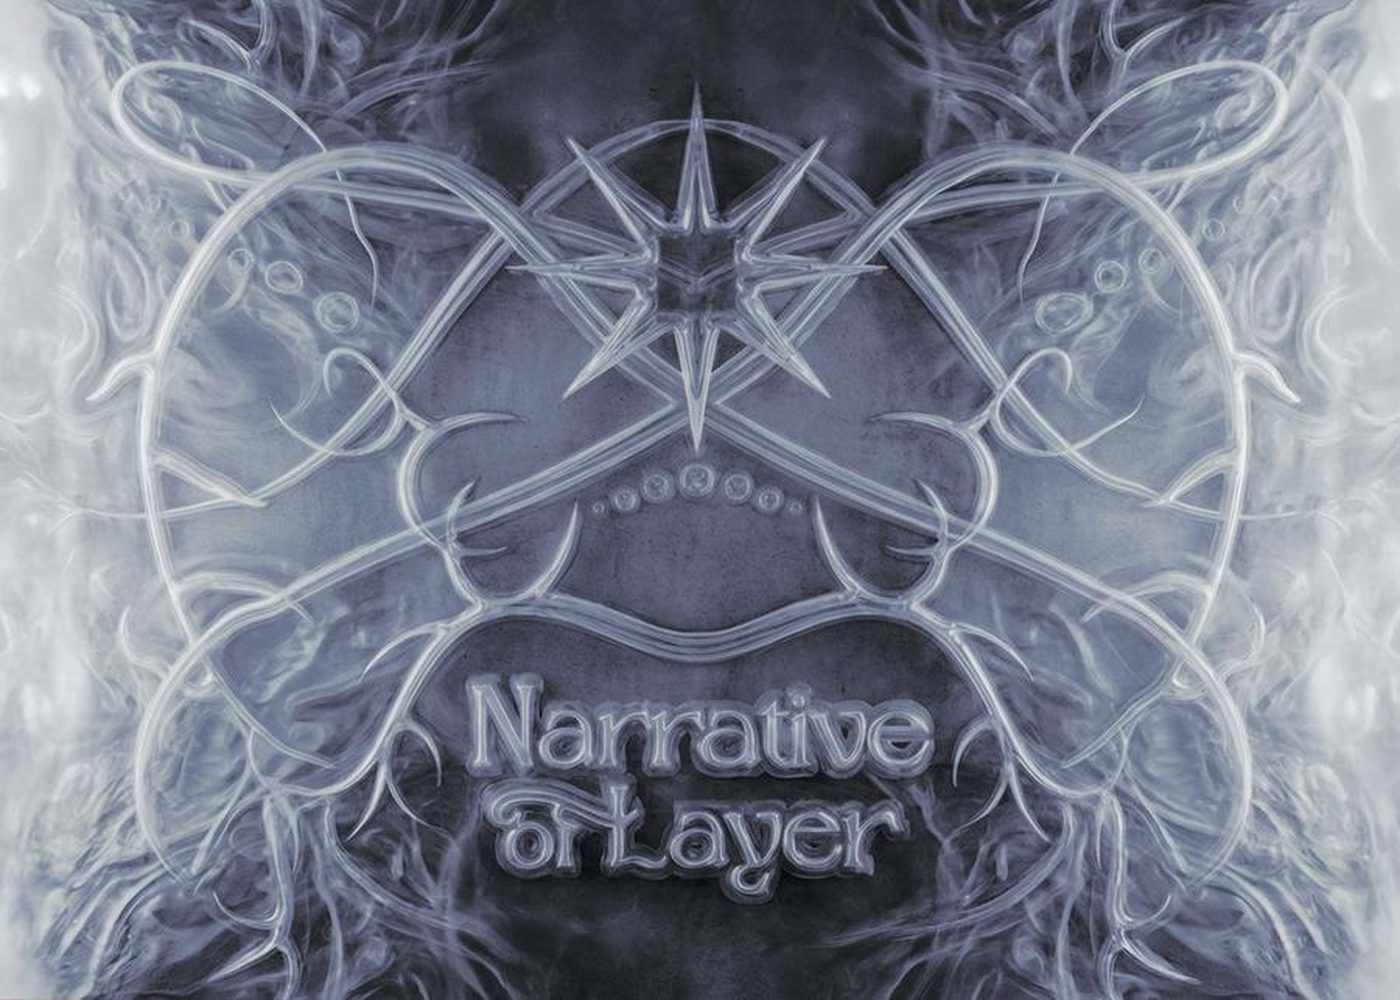
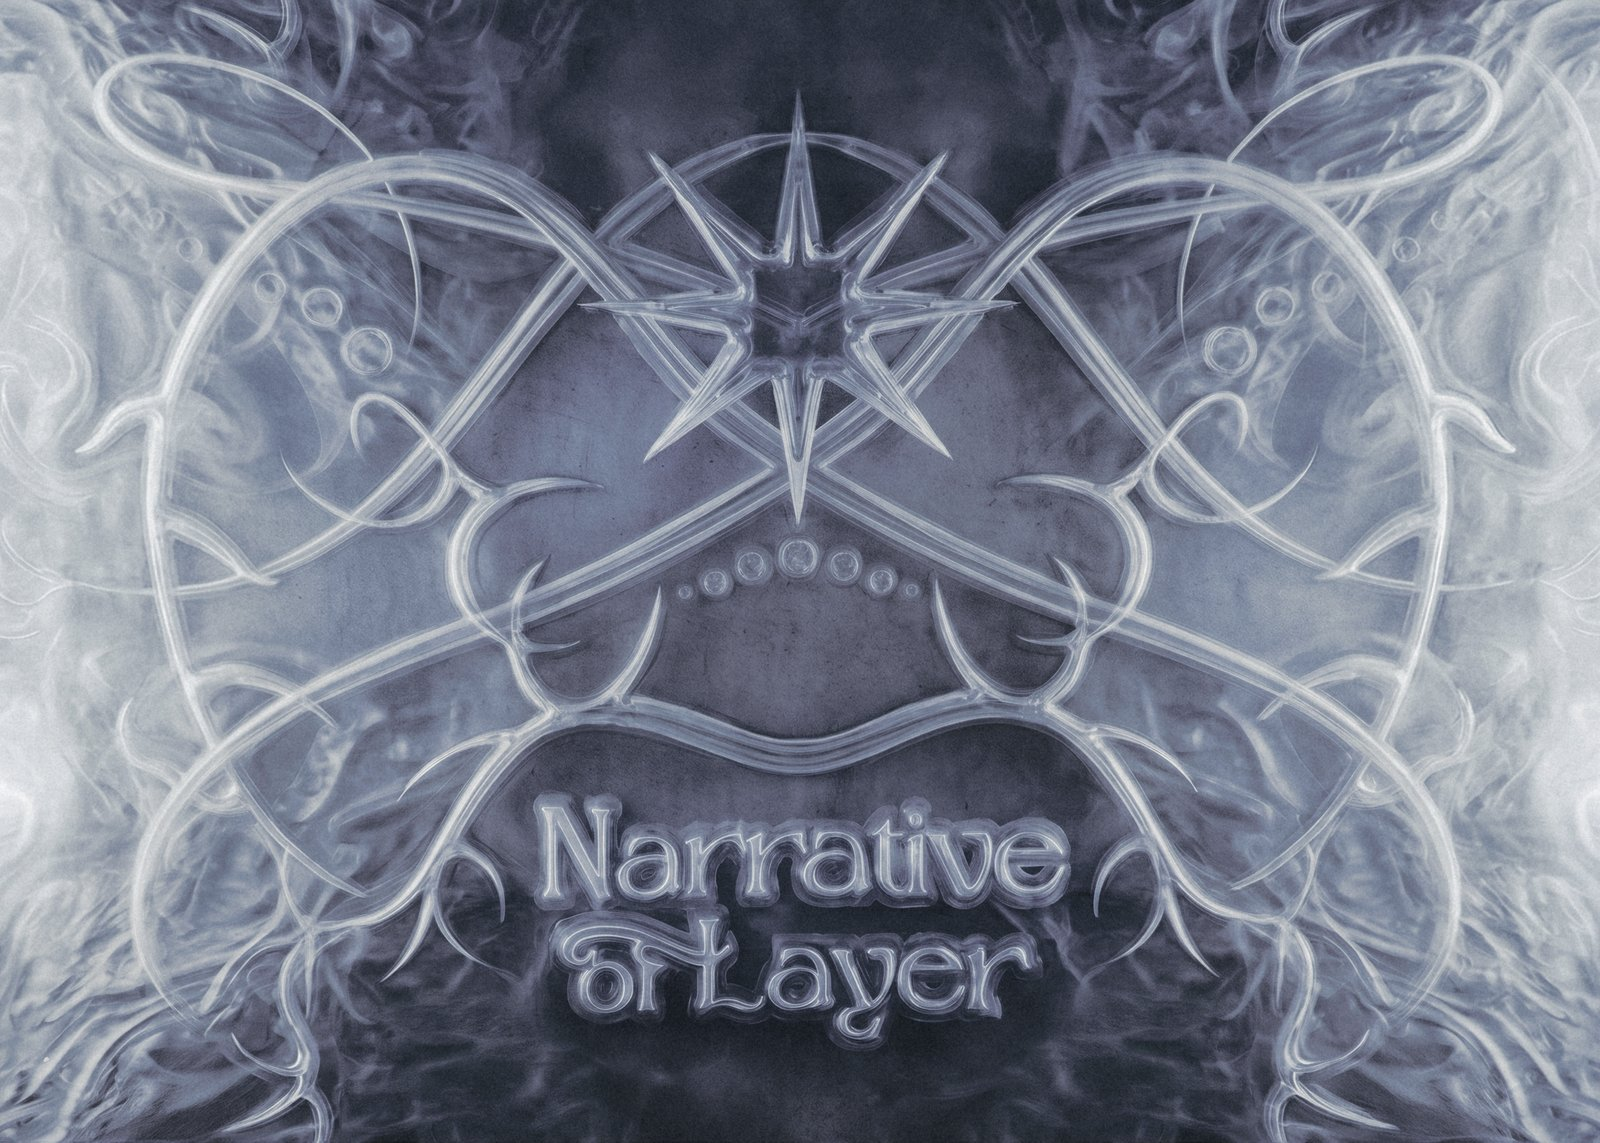
1120

diff --git a/main.js b/main.js
@@ -48,29 +48,29 @@ const projects = [
   {id:"cryptids", title:"CRYPTIDS", year:"Fall 2025", client:"Self-initiated", cat:"", role:"Art direction, Visual identity", scope:"Full brand design", sub:"Editorial design", category:"Personal", slides:[], img:"./images/cryptids.jpg",
    desc:"프로젝트 설명을 입력하세요.", c:["#2b2b2b", "#d8d8d4"], motif:"n"},
   {id:"nuflaat", title:"NUFLAAT CRACKER CAMPAIGN", year:"Fall 2026", client:"Self-initiated", cat:"", role:"Art direction, Visual identity", scope:"Full brand design", sub:"Editorial design", category:"Personal",
-   slides:["./images/nuflaat-1.jpg?v=2", "./images/nuflaat-2.jpg?v=2", "./images/nuflaat-3.jpg?v=2", "./images/nuflaat-4.jpg?v=2"], img:"./images/nuflaat-thumb.jpg?v=2",
+   slides:["./images/nuflaat-1.jpg?v=5", "./images/nuflaat-2.jpg?v=5", "./images/nuflaat-3.jpg?v=5", "./images/nuflaat-4.jpg?v=5"], img:"./images/nuflaat-thumb.jpg?v=3", crack:"./images/nuflaat-crack.jpg?v=6",
    desc:"프로젝트 설명을 입력하세요.", c:["#e9dfcc", "#3b2b22"], motif:"rows"},
-  {id:"narrative-of-layer", title:"NARRATIVE OF LAYER", year:"2025", client:"Self-initiated", cat:"", role:"Art direction, Visual identity", scope:"Full brand design", sub:"Editorial design", category:"Personal", slides:["./images/narrative-of-layer-1.jpg", "./images/narrative-of-layer-2.jpg", "./images/narrative-of-layer-3.jpg"], img:"./images/narrative-of-layer.jpg",
+  {id:"narrative-of-layer", title:"NARRATIVE OF LAYER", year:"Fall 2025", client:"Self-initiated", cat:"", role:"Art direction, Visual identity", scope:"Full brand design", sub:"Editorial design", category:"Personal", slides:["./images/narrative-of-layer-1.jpg", "./images/narrative-of-layer-2.jpg", "./images/narrative-of-layer-3.jpg"], img:"./images/narrative-of-layer.jpg?v=4", crack:"./images/narrative-of-layer-crack.jpg",
    desc:"프로젝트 설명을 입력하세요.", c:["#c9cfdb", "#2e3442"], motif:"stack"},
   {id:"oclyn", title:"OCLYN", year:"Winter 2026", client:"Self-initiated", cat:"", role:"Art direction, Visual identity", scope:"Full brand design", sub:"Editorial design", category:"Personal", slides:[], img:"./images/oclyn.jpg",
    desc:"프로젝트 설명을 입력하세요.", c:["#f2f2f2", "#1a1a1a"], motif:"wave"},
   {id:"interwoven-time", title:"INTERWOVEN TIME", year:"Winter 2025", client:"Self-initiated", cat:"", role:"Art direction, Visual identity", scope:"Full brand design", sub:"Editorial design", category:"Personal", slides:[], img:"./images/interwoven-time.jpg",
    desc:"프로젝트 설명을 입력하세요.", c:["#eef1e6", "#4a4a55"], motif:"disc"},
   {id:"the-point-of-collection", title:"THE POINT OF COLLECTION", year:"Fall 2026", client:"Self-initiated", cat:"", role:"Art direction, Visual identity", scope:"Full brand design", sub:"Editorial design", category:"Personal",
-   slides:["./images/the-point-of-collection-1.mp4?v=2", "./images/the-point-of-collection-2.jpg", "./images/the-point-of-collection-3.jpg"], img:"./images/the-point-of-collection-thumb.jpg",
+   slides:["./images/the-point-of-collection-1.mp4?v=2", "./images/the-point-of-collection-2.jpg", "./images/the-point-of-collection-3.jpg"], img:"./images/the-point-of-collection-thumb.jpg", crack:"./images/the-point-of-collection-crack.jpg",
    desc:"프로젝트 설명을 입력하세요.", c:["#f2f2f2", "#1a1a1a"], motif:"stamp"},
-  {id:"hatching-tomorrow", title:"HATCHING TOMORROW", year:"Winter 2025", client:"Self-initiated", cat:"", role:"Art direction, Visual identity", scope:"Full brand design", sub:"Editorial design", category:"Personal", slides:[], img:"./images/hatching-tomorrow.jpg",
+  {id:"hatching-tomorrow", title:"HATCHING TOMORROW", year:"Winter 2025", client:"Self-initiated", cat:"", role:"Art direction, Visual identity", scope:"Full brand design", sub:"Editorial design", category:"Personal", slides:[], img:"./images/hatching-tomorrow.jpg?v=4", crack:"./images/hatching-tomorrow-crack.jpg?v=2",
    desc:"프로젝트 설명을 입력하세요.", c:["#0d0d0d", "#5f8079"], motif:"cover"},
   {id:"untitled-01", title:"UNTITLED 01", year:"2026", client:"Self-initiated", cat:"", role:"Art direction, Visual identity", scope:"Full brand design", sub:"Editorial design", category:"Personal", slides:[], img:"./images/untitled-01.jpg",
    desc:"프로젝트 설명을 입력하세요.", c:["#cccccc","#333333"], motif:"n"},
-  {id:"interwoven-time-2", title:"INTERWOVEN TIME", year:"Winter 2025", client:"Self-initiated", cat:"", role:"Art direction, Visual identity", scope:"Full brand design", sub:"Editorial design", category:"Personal", slides:["./images/interwoven2-1.jpg", "./images/interwoven2-2.jpg", "./images/interwoven2-3.jpg", "./images/interwoven2-4.mp4", "./images/interwoven2-5.jpg?v=2", "./images/interwoven2-6.jpg?v=2", "./images/interwoven2-7.mp4", "./images/interwoven2-8.jpg"], img:"./images/interwoven2-thumb.jpg?v=3",
+  {id:"interwoven-time-2", title:"INTERWOVEN TIME", year:"Winter 2025", client:"Self-initiated", cat:"", role:"Art direction, Visual identity", scope:"Full brand design", sub:"Editorial design", category:"Personal", slides:["./images/interwoven2-1.jpg", "./images/interwoven2-2.jpg", "./images/interwoven2-3.jpg", "./images/interwoven2-4.mp4", "./images/interwoven2-5.jpg?v=2", "./images/interwoven2-6.jpg?v=2", "./images/interwoven2-7.mp4", "./images/interwoven2-8.jpg"], img:"./images/interwoven2-thumb.jpg?v=3", crack:"./images/interwoven2-crack.jpg?v=9",
    desc:"프로젝트 설명을 입력하세요.", c:["#cccccc","#333333"], motif:"n"},
   {id:"samsung-galaxy-unpacked", title:"SAMSUNG GALAXY UNPACKED", year:"2026", client:"Self-initiated", cat:"", role:"Art direction, Visual identity", scope:"Full brand design", sub:"Editorial design", category:"Personal",
-   slides:["./images/samsung-1.mp4"], img:"./images/samsung-thumb.jpg?v=2",
+   slides:["./images/samsung-1.mp4"], img:"./images/samsung-thumb.jpg?v=2", crack:"./images/samsung-crack.jpg?v=8",
    desc:"프로젝트 설명을 입력하세요.", c:["#cccccc","#333333"], motif:"n"},
-  {id:"blackpink-go", title:"BLACKPINK “GO” M/V", year:"2026", client:"Self-initiated", cat:"", role:"Art direction, Visual identity", scope:"Full brand design", sub:"Editorial design", category:"Personal", slides:["./images/blackpink-1.jpg", "./images/blackpink-2.mp4?v=3", "./images/blackpink-3.jpg", "./images/blackpink-4.jpg", "./images/blackpink-5.jpg", "./images/blackpink-6.jpg", "./images/blackpink-7.jpg", "./images/blackpink-8.jpg", "./images/blackpink-9.jpg", "./images/blackpink-10.jpg"], img:"./images/blackpink-thumb.jpg",
+  {id:"blackpink-go", title:"BLACKPINK “GO” M/V", year:"2026", client:"Self-initiated", cat:"", role:"Art direction, Visual identity", scope:"Full brand design", sub:"Editorial design", category:"Personal", slides:["./images/blackpink-1.jpg", "./images/blackpink-2.mp4?v=3", "./images/blackpink-3.jpg", "./images/blackpink-4.jpg", "./images/blackpink-5.jpg", "./images/blackpink-6.jpg", "./images/blackpink-7.jpg", "./images/blackpink-8.jpg", "./images/blackpink-9.jpg", "./images/blackpink-10.jpg"], img:"./images/blackpink-thumb.jpg", crack:"./images/blackpink-crack.jpg?v=2",
    desc:"프로젝트 설명을 입력하세요.", c:["#cccccc","#333333"], motif:"n"},
-  {id:"untitled-05", title:"UNTITLED 05", year:"2026", client:"Self-initiated", cat:"", role:"Art direction, Visual identity", scope:"Full brand design", sub:"Editorial design", category:"Personal", slides:[], img:"./images/untitled-05.jpg",
+  {id:"coilisim", title:"COILISIM 蝸殼敎", year:"Summer 2026", client:"Self-initiated", cat:"", role:"Art direction, Visual identity", scope:"Full brand design", sub:"Editorial design", category:"Personal", slides:["./images/coilisim-1.jpg", "./images/coilisim-2.jpg", "./images/coilisim-3.jpg", "./images/coilisim-4.jpg", "./images/coilisim-5.jpg", "./images/coilisim-6.jpg", "./images/coilisim-7.jpg", "./images/coilisim-8.jpg", "./images/coilisim-9.jpg", "./images/coilisim-10.jpg", "./images/coilisim-11.jpg"], img:"./images/untitled-05.jpg",
    desc:"프로젝트 설명을 입력하세요.", c:["#cccccc","#333333"], motif:"n"}
 ];
 const N = projects.length;
@@ -114,7 +114,7 @@ function paintArt(p,i){
 function coverDraw(cv,img){const x=cv.getContext('2d'),W=cv.width,H=cv.height,s=Math.max(W/img.width,H/img.height);
   x.drawImage(img,(W-img.width*s)/2,(H-img.height*s)/2,img.width*s,img.height*s)}
 
-const arts=[],thumbs=[];
+const arts=[],thumbs=[],crackArts=[];
 
 /* ───────── UI ───────── */
 const $=s=>document.querySelector(s);
@@ -126,7 +126,13 @@ function buildIndex(){
 }
 function fillImgs(){sheet.classList.add('noglass');sheet.querySelectorAll('.icard img').forEach((im,i)=>{im.src=arts[i].toDataURL('image/jpeg',.85)})}
 let drawThumbs=null;
-sheet.addEventListener('click',e=>{const r=e.target.closest('.icard');if(r)location.hash=r.dataset.id});
+sheet.addEventListener('click',e=>{const r=e.target.closest('.icard');if(!r)return;
+  const p=projects.find(q=>q.id===r.dataset.id),g=r.querySelector('.iglass');
+  /* GRID에서도 유리 깨짐 */
+  if(p&&p.crack&&g&&!reduce){if(r.classList.contains('shatter'))return;
+    const ca=crackArts[projects.indexOf(p)],ov=document.createElement(ca?'canvas':'img');ov.className='crack-ov';if(ca){ov.width=ca.width;ov.height=ca.height;ov.getContext('2d').drawImage(ca,0,0)}else ov.src=p.crack;g.appendChild(ov);r.classList.add('shatter');
+    setTimeout(()=>{location.hash=r.dataset.id},620);setTimeout(()=>{ov.remove();r.classList.remove('shatter')},1300);return}
+  location.hash=r.dataset.id});
 document.querySelector('.views').addEventListener('click',e=>{const b=e.target.closest('[data-view]');if(!b)return;location.hash=b.dataset.view==='index'?'index':'top'});
 function setView(v){document.querySelectorAll('[data-view]').forEach(b=>b.setAttribute('aria-pressed',b.dataset.view===v));sheet.hidden=v!=='index';document.body.classList.toggle('is-index',v==='index');if(v==='index'&&drawThumbs)requestAnimationFrame(drawThumbs)}
 
@@ -261,7 +267,7 @@ window.addEventListener('hashchange',route);
 /* ───────── 3D 매트 유리판 스택 ───────── */
 const VS=`varying vec2 vUv;void main(){vUv=uv;gl_Position=projectionMatrix*modelViewMatrix*vec4(position,1.);}`;
 const FS=`precision highp float;
-uniform sampler2D map;uniform float uHover,uFade,uDim,uEdge;uniform vec3 uEC;uniform vec3 uHaze;varying vec2 vUv;
+uniform sampler2D map;uniform float uHover,uFade,uDim,uEdge,uRaw;uniform vec3 uEC;uniform vec3 uHaze;varying vec2 vUv;
 vec3 blur(vec2 uv,float lod,float r){
  vec3 c=texture2D(map,uv,lod).rgb*.2;
  c+=texture2D(map,uv+vec2(r,0.),lod).rgb*.1;
@@ -292,6 +298,8 @@ void main(){
  float f=clamp(tb/T,0.,1.);
  float S=T*1.3*(1.-f);
  float cut=(1.-smoothstep(S-aa,S+aa,min(uv.x,1.-uv.x)*1.4))*bevel;
+ /* 유리 깨짐 이미지: 뿌연 효과 없이 원본 그대로, 투명도는 마우스 올렸을 때와 같음 */
+ col=mix(col,texture2D(map,uv).rgb,uRaw);
  vec3 ec=uEC;
  vec3 fc=mix(mix(ec,vec3(1.),.25),ec*.82,f);
  col=mix(col,fc,bevel*.55);
@@ -311,6 +319,8 @@ async function boot(){
     const cv=paintArt(projects[i],i);
     if(projects[i].img){try{const im=new Image();im.crossOrigin='anonymous';im.src=projects[i].img;await im.decode();coverDraw(cv,im)}catch(e){}}
     arts.push(cv);
+    /* 클릭 시 '유리 깨짐' 이미지가 있는 프로젝트 */
+    if(projects[i].crack){try{const c2=document.createElement('canvas');c2.width=cv.width;c2.height=cv.height;const im2=new Image();im2.src=projects[i].crack;await im2.decode();coverDraw(c2,im2);crackArts[i]=c2}catch(e){}}
     const t=document.createElement('canvas');t.width=144;t.height=108;t.getContext('2d').drawImage(cv,33,0,1333,1000,0,0,144,108);thumbs.push(t.toDataURL('image/jpeg',.8));
   }
   buildIndex();
@@ -332,6 +342,8 @@ function start3D(){
   /* 썸네일 넘기는 속도 — 모바일/데스크탑 따로
      step: 한 장 넘기는 데 필요한 스크롤 (화면 높이 대비, 클수록 느림)
      follow: 판이 따라오는 빠르기 (클수록 빠름) */
+  /* 맨 앞 판 선명도 (0=다른 판과 같음, 1=마우스 올렸을 때만큼 선명) — 데스크탑 / 모바일 따로 */
+  const FRONT_CLEAR=0,FRONT_CLEAR_MOBILE=.45;
   const SCROLL={mobile:{step:.56,follow:8.5},desktop:{step:.9,follow:6.5}};
   const camera=new THREE.PerspectiveCamera(32,1,.1,100);const PT=.2301;let pile=null,pOff=null,pZ=1;
   renderer.setPixelRatio(Math.min(window.devicePixelRatio||1,2));
@@ -344,7 +356,7 @@ function start3D(){
   const meshes=projects.map((p,i)=>{
     const tex=new THREE.CanvasTexture(arts[i]);
     tex.generateMipmaps=true;tex.minFilter=THREE.LinearMipmapLinearFilter;tex.anisotropy=aniso;
-    const glass=new THREE.ShaderMaterial({uniforms:{map:{value:tex},uHover:{value:0},uFade:{value:0},uDim:{value:0},uEdge:{value:1},uEC:{value:avgTop(arts[i])},uHaze:{value:haze}},vertexShader:VS,fragmentShader:FS,transparent:true,depthWrite:false});
+    const glass=new THREE.ShaderMaterial({uniforms:{map:{value:tex},uRaw:{value:0},uHover:{value:0},uFade:{value:0},uDim:{value:0},uEdge:{value:1},uEC:{value:avgTop(arts[i])},uHaze:{value:haze}},vertexShader:VS,fragmentShader:FS,transparent:true,depthWrite:false});
     const side=new THREE.MeshBasicMaterial({color:avgColor(arts[i]),transparent:true,opacity:0,depthWrite:false});
     const mesh=new THREE.Mesh(geo,[side,side,side,side,glass,glass]);
     mesh.rotation.y=ROT;mesh.userData={i,h:0,d:0,glass,side};deck.add(mesh);return mesh;
@@ -387,7 +399,15 @@ function start3D(){
     /* 탭/클릭한 그 지점에서 바로 판을 찾음 (터치는 hover 상태를 쓰지 않음) */
     ray.setFromCamera(new THREE.Vector2(e.clientX/innerWidth*2-1,-(e.clientY/(canvas.clientHeight||innerHeight))*2+1),camera);
     const hs=ray.intersectObjects(meshes.filter(m=>m.visible&&m.userData.glass.uniforms.uFade.value>.3)),h=hs.length?hs[0].object:null;
-    if(!h)return;picked=h;const id=projects[h.userData.i].id;setTimeout(()=>{location.hash=id;picked=null},reduce?0:340)});
+    if(!h)return;picked=h;const id=projects[h.userData.i].id;
+    /* 유리 깨짐: 판 이미지를 금 간 이미지로 바꾸고 아주 미세하게 떨린 뒤 열림 */
+    const ca=crackArts[h.userData.i];
+    if(ca&&!reduce){const U=h.userData.glass.uniforms,orig=U.map.value;
+      if(!h.userData.crackTex){const ct=new THREE.CanvasTexture(ca);ct.colorSpace=orig.colorSpace;ct.anisotropy=orig.anisotropy;h.userData.crackTex=ct}
+      U.map.value=h.userData.crackTex;U.uRaw.value=1;h.userData.crackT=performance.now();
+      setTimeout(()=>{location.hash=id;picked=null},720);
+      setTimeout(()=>{U.map.value=orig;U.uRaw.value=0;h.userData.crackT=0},1400);return}
+    setTimeout(()=>{location.hash=id;picked=null},reduce?0:340)});
   $('#nowOpen').onclick=()=>{location.hash=projects[(capM||meshes[front]).userData.i].id};
   addEventListener('keydown',e=>{
     if(panel.open||info.open||!sheet.hidden)return;
@@ -448,11 +468,12 @@ function start3D(){
       const PIV=2;tmp.copy(DIR).multiplyScalar(PIV+(rel*spread-PIV)*(.015+.985*si));
       tmp.y+=u.h*.3;
       m.position.copy(tmp);
+      if(u.crackT){const k=Math.max(0,1-(performance.now()-u.crackT)/220);if(k>0){m.position.x+=(Math.random()-.5)*.026*k;m.position.y+=(Math.random()-.5)*.019*k}}
       m.rotation.y=0;
       m.rotation.x=tilt*.025;
       m.rotation.z=0;
       const fade=ss(rel,-.5,-.08)*(1-.65*ss(rel,4,8))*(intro<0?0:Math.min(1,intro*5));
-      const gu=u.glass.uniforms;gu.uFade.value=fade;gu.uHover.value=Math.min(1,u.h);gu.uDim.value=u.d;
+      const gu=u.glass.uniforms;gu.uFade.value=fade;/* 맨 앞에 온 판은 뿌연 정도를 낮춰 더 선명하게 (넘기는 중엔 자연스럽게 섞임) */gu.uHover.value=Math.max(Math.min(1,u.h),(innerWidth<innerHeight?FRONT_CLEAR_MOBILE:FRONT_CLEAR)*cl(1-Math.abs(rel),0,1));gu.uDim.value=u.d;
       u.side.opacity=fade*.9;
       m.visible=fade>.01;
     });
@@ -484,7 +505,7 @@ function glassThumbs(){
   r.setClearColor(0x000000,0);
   const cam=new THREE.OrthographicCamera(-.5,.5,.5,-.5,0,2);cam.position.z=1;
   const sc=new THREE.Scene(),haze=new THREE.Color();
-  const mat=new THREE.ShaderMaterial({uniforms:{map:{value:null},uHover:{value:0},uFade:{value:1},uDim:{value:0},uEdge:{value:0},uHaze:{value:haze}},vertexShader:VS,fragmentShader:FS,transparent:true,depthWrite:false});
+  const mat=new THREE.ShaderMaterial({uniforms:{map:{value:null},uRaw:{value:0},uHover:{value:0},uFade:{value:1},uDim:{value:0},uEdge:{value:0},uHaze:{value:haze}},vertexShader:VS,fragmentShader:FS,transparent:true,depthWrite:false});
   sc.add(new THREE.Mesh(new THREE.PlaneGeometry(1,1),mat));
   const aniso=r.capabilities.getMaxAnisotropy();
   const texs=arts.map(cv=>{const t=new THREE.CanvasTexture(cv);t.generateMipmaps=true;t.minFilter=THREE.LinearMipmapLinearFilter;t.anisotropy=aniso;return t});

diff --git a/style.css b/style.css
@@ -122,8 +122,10 @@ dialog::backdrop{background:color-mix(in srgb,var(--bg) 25%,transparent);-webkit
 .detail[hidden]{display:none}
 .is-detail .now{display:none}
 .dmeta{display:grid;grid-template-columns:18.75% 18.75% 50.5% 12%;align-items:start}
-.dback{padding-left:6.25%}
-.dnext{justify-self:end;padding-right:9.765625%}
+.dback{padding-left:5px}
+.dnext{justify-self:end;padding-right:5px}
+/* 화살표 세로 중심 = 오른쪽 글씨 첫 줄의 세로 중심 */
+.dback,.dnext{height:1.3em}
 .dtitle div,.dinfo div{white-space:nowrap;overflow:hidden;text-overflow:ellipsis}
 .dgap{height:1.3em}
 .dback,.dnext,.dfoot a{transition:color .12s}
@@ -166,7 +168,7 @@ dialog::backdrop{background:color-mix(in srgb,var(--bg) 25%,transparent);-webkit
   .dgal-in{grid-template-columns:repeat(2,minmax(0,1fr));gap:4px}
   .dslides .dvid{position:relative;pointer-events:auto}
   .dvid video{height:auto}
-  .dfoot{display:flex;justify-content:space-between;align-items:center;position:fixed;left:0;right:0;z-index:6;bottom:calc(max(9px,env(safe-area-inset-bottom,0px)) + 9px + var(--fs)*1.2 + 13px);padding:0 6px;font-size:max(13px,var(--fs));pointer-events:none}
+  .dfoot{display:flex;justify-content:space-between;align-items:center;position:fixed;left:0;right:0;z-index:6;bottom:calc(max(9px,env(safe-area-inset-bottom,0px)) + 9px + var(--fs)*1.2 + 5px);padding:0 5px;font-size:max(13px,var(--fs));pointer-events:none}
   .dfoot a{pointer-events:auto}
   .dfoot>span:first-child{display:none}
 }
@@ -186,3 +188,12 @@ img,canvas{-webkit-user-drag:none;-webkit-touch-callout:none;user-select:none;-w
 .sr{position:absolute;width:1px;height:1px;overflow:hidden;clip:rect(0 0 0 0);white-space:nowrap}
 .nav,.views,.now,.tip{box-shadow:none}
 @media (prefers-reduced-motion:reduce){*{transition:none!important}}
+
+/* 유리 깨짐 (클릭 시) */
+.iglass{position:relative}
+.crack-ov{position:absolute;inset:0;width:100%;height:100%;object-fit:cover;opacity:1;-webkit-mask-image:radial-gradient(ellipse 80% 90% at 50% 62%,#000 40%,rgba(0,0,0,.88) 100%);mask-image:radial-gradient(ellipse 80% 90% at 50% 62%,#000 40%,rgba(0,0,0,.88) 100%);pointer-events:none;z-index:2}
+/* GRID: 금 간 이미지가 반투명일 때 밑의 원래 썸넬은 숨김 (배경만 비치게) */
+.icard.shatter .iglass>:not(.crack-ov){visibility:hidden}
+/* GRID 떨림: PILE보다 약하게 */
+.icard.shatter .iglass{animation:shatter .22s linear}
+@keyframes shatter{0%,100%{transform:translate(0,0)}17%{transform:translate(-.8px,.4px)}33%{transform:translate(.8px,-.4px)}50%{transform:translate(-.6px,.3px)}67%{transform:translate(.4px,-.2px)}83%{transform:translate(-.2px,0)}}

diff --git a/index.html b/index.html
@@ -7,7 +7,7 @@
 <link rel="preconnect" href="https://fonts.googleapis.com">
 <link rel="preconnect" href="https://fonts.gstatic.com" crossorigin>
 <link href="https://fonts.googleapis.com/css2?family=Schibsted+Grotesk:wght@400;500;700;900&family=Noto+Sans+KR:wght@400;500;900&display=swap" rel="stylesheet">
-<link rel="stylesheet" href="./style.css?v=57">
+<link rel="stylesheet" href="./style.css?v=110">
 <script type="importmap">
 { "imports": { "three": "https://cdn.jsdelivr.net/npm/three@0.160.0/build/three.module.js" } }
 </script>
@@ -60,6 +60,6 @@
   </div>
 </dialog>
 
-<script type="module" src="./main.js?v=57"></script>
+<script type="module" src="./main.js?v=110"></script>
 </body>
 </html>
